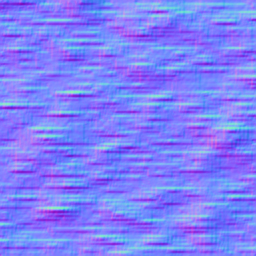
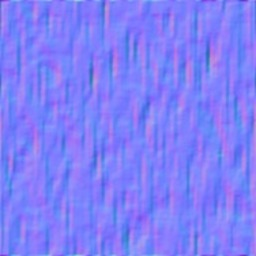
changed normal maps to be more accurate, redid grain and ripple overlay calculation

diff --git a/assignments/assignment5/main.cpp b/assignments/assignment5/main.cpp
@@ -39,7 +39,7 @@ float oceanShininess = 32;
 float grainSpecularK = 0.8f;
 float grainShininess = 850;
 float sandStrength = 0.4f;
-float grainSize = 5.0f;
+float grainSize = 2.0f;
 float rimStrength = 0.2f;
 float rimPower = 10.0f;
 float rippleStrength = 5.0f;
@@ -102,11 +102,11 @@ int main() {
 	ew::Mesh sphereMesh = ew::Mesh(sphereMeshData);
 
 	
-	Texture2D grainNormals("assets/NormalMaps/grainNormals.png", GL_LINEAR_MIPMAP_LINEAR, GL_NEAREST, GL_REPEAT, GL_REPEAT, GL_RGBA);
 
-	Texture2D shallowRipplesX("assets/NormalMaps/sandShallowX.jpg", GL_LINEAR_MIPMAP_LINEAR, GL_LINEAR, GL_REPEAT, GL_REPEAT, GL_RGB);
-	Texture2D steepRipplesX("assets/NormalMaps/sandSteepX.jpg", GL_LINEAR_MIPMAP_LINEAR, GL_LINEAR, GL_REPEAT, GL_REPEAT, GL_RGB);
-	Texture2D shallowRipplesZ("assets/NormalMaps/sandShallowZ.jpg", GL_LINEAR_MIPMAP_LINEAR, GL_LINEAR, GL_REPEAT, GL_REPEAT, GL_RGB);
+	Texture2D grainNormals("assets/NormalMaps/grain.jpg", GL_LINEAR_MIPMAP_LINEAR, GL_NEAREST, GL_REPEAT, GL_REPEAT, GL_RGB);
+	Texture2D shallowRipplesX("assets/NormalMaps/sandShallowX2.jpg", GL_LINEAR_MIPMAP_LINEAR, GL_LINEAR, GL_REPEAT, GL_REPEAT, GL_RGB);
+	Texture2D steepRipplesX("assets/NormalMaps/sandSteepX2.jpg", GL_LINEAR_MIPMAP_LINEAR, GL_LINEAR, GL_REPEAT, GL_REPEAT, GL_RGB);
+	Texture2D shallowRipplesZ("assets/NormalMaps/sandShallowZ2.jpg", GL_LINEAR_MIPMAP_LINEAR, GL_LINEAR, GL_REPEAT, GL_REPEAT, GL_RGB);
 	Texture2D steepRipplesZ("assets/NormalMaps/sandSteepZ.jpg", GL_LINEAR_MIPMAP_LINEAR, GL_LINEAR, GL_REPEAT, GL_REPEAT, GL_RGB);
 
 	//set active shader and set textures to units
@@ -171,7 +171,7 @@ int main() {
 
 		//Draw plane
 		/*glm::mat4 planeTransform = glm::mat4(1);
-		planeTransform = glm::rotate(planeTransform, glm::radians(90.0f), glm::vec3(-1.0f, 0.0f, 0.0f));
+		planeTransform = glm::rotate(planeTransform, glm::radians(00.0f), glm::vec3(-1.0f, 0.0f, 0.0f));
 		planeTransform = glm::translate(planeTransform, glm::vec3(-5.0, -5.0, 0.0));
 		sandShader.setMat4("model", planeTransform);
 		planeMesh.draw(drawMode);
